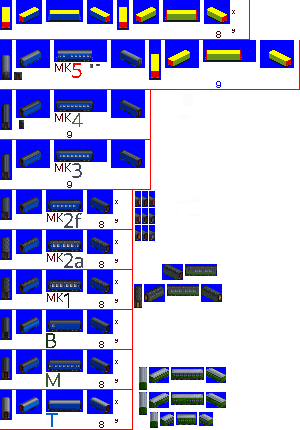
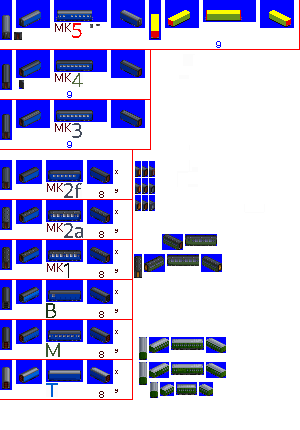
add extended length alignment templates

diff --git a/src/py/alignments.py b/src/py/alignments.py
@@ -8,7 +8,7 @@ for n in range(0,8):
     output.write(f"""
 
 template TEMPLATE_{8-n}_8_A(x,y){{
-	[x*250,		y*40,	12,	30,		-5,		{-17-2*n},	ANIM]	// NORTH	
+	[x*250,		y*40,	12,	30,		-5,		{-17-2*n},	ANIM]	// NORTH
 	[x*250+16,	y*40,	26,	24,		{-16+2*n},	{-15-n},	ANIM]	// NORTH EAST
 	[x*250+46,	y*40,	37,	22,		{-19+4*n},	-17,	ANIM]	// EAST
 	[x*250+87,	y*40,	26,	24,		-8,		-15,	ANIM]	// SOUTH EAST
@@ -18,7 +18,7 @@ template TEMPLATE_{8-n}_8_A(x,y){{
 	[x*250+204,	y*40,	26,	24,		{-8-2*n},		{-15-n},	ANIM]	// NORTH WEST
 }}
 template TEMPLATE_{8-n}_8_B(x,y){{
-	[x*250+117,	y*40,	12,	30,		-5,		{-17-2*n},	ANIM]	// NORTH	
+	[x*250+117,	y*40,	12,	30,		-5,		{-17-2*n},	ANIM]	// NORTH
 	[x*250+133,	y*40,	26,	24,		{-16+2*n},	{-15-n},	ANIM]	// NORTH EAST
 	[x*250+163,	y*40,	37,	22,		{-19+4*n},	-17,	ANIM]	// EAST
 	[x*250+204,	y*40,	26,	24,		-8,		-15,	ANIM]	// SOUTH EAST
@@ -29,7 +29,7 @@ template TEMPLATE_{8-n}_8_B(x,y){{
 }}
 
 template TEMPLATE_{8-n}_4(x,y){{
-	[x*250,		y*40,	12,	30,		-5,		{-17-2*n},	ANIM]	// NORTH	
+	[x*250,		y*40,	12,	30,		-5,		{-17-2*n},	ANIM]	// NORTH
 	[x*250+16,	y*40,	26,	24,		{-16+2*n},	{-15-n},	ANIM]	// NORTH EAST
 	[x*250+46,	y*40,	37,	22,		{-19+4*n},	-17,	ANIM]	// EAST
 	[x*250+87,	y*40,	26,	24,		-8,		-15,	ANIM]	// SOUTH EAST